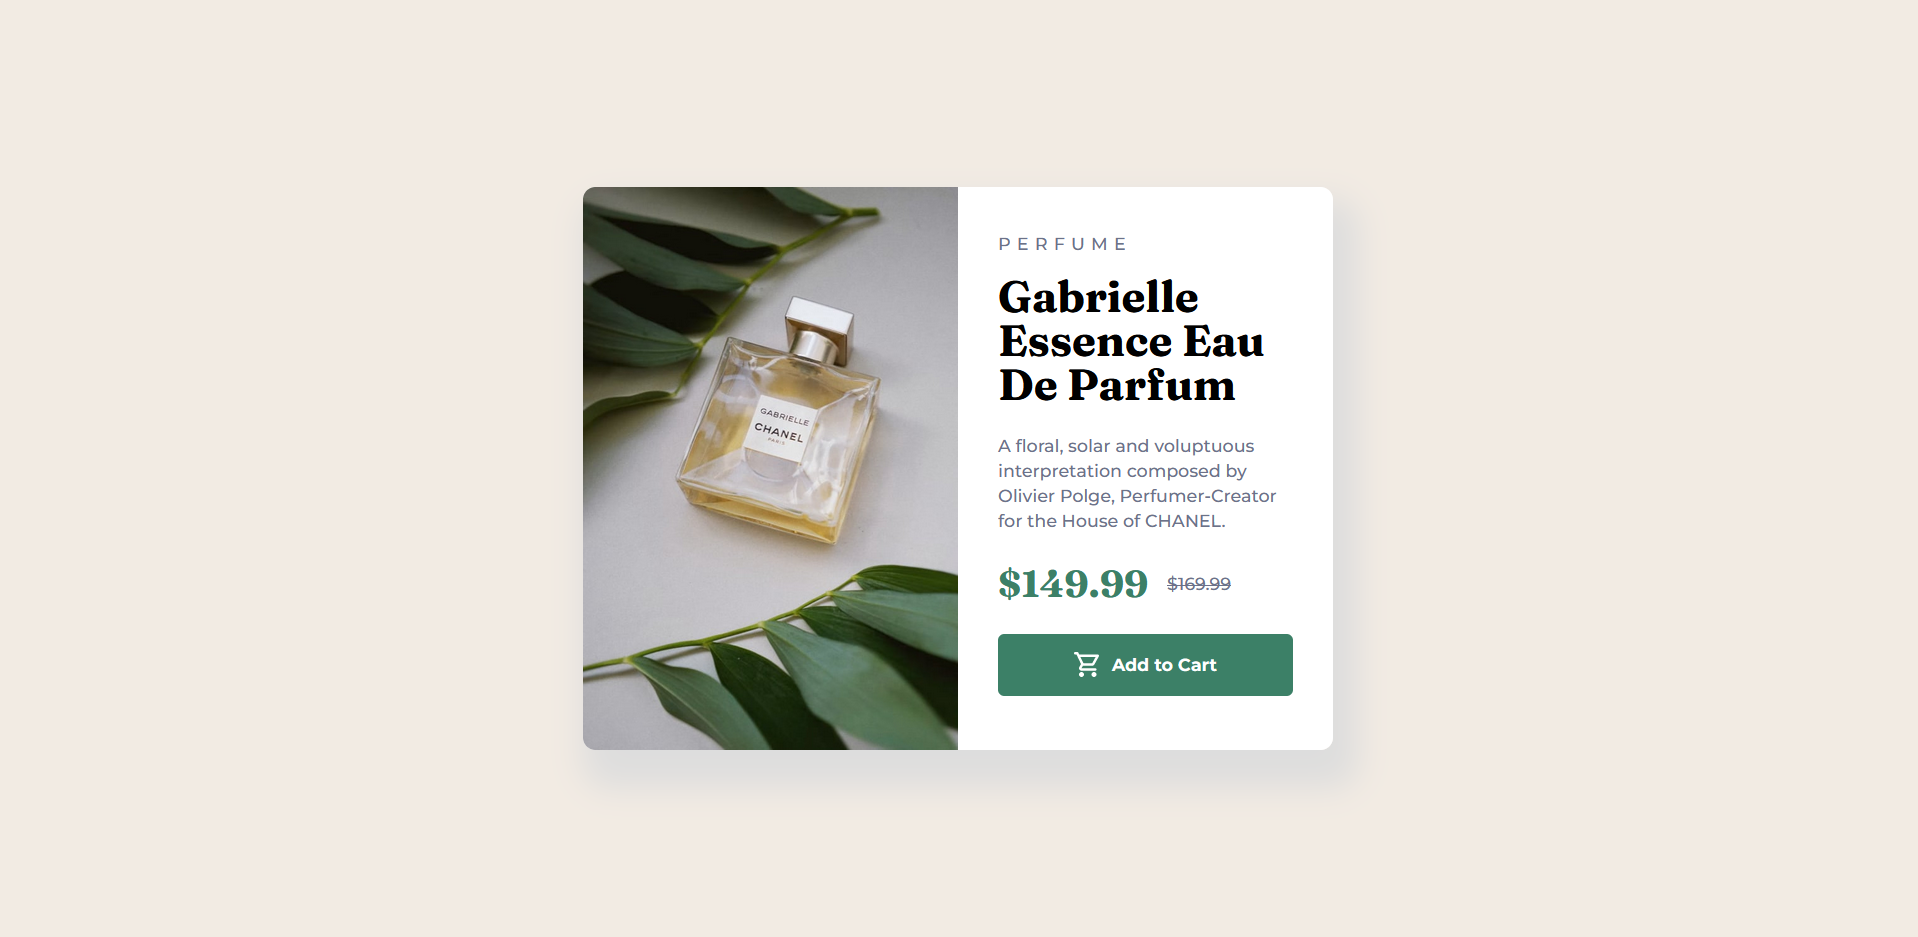
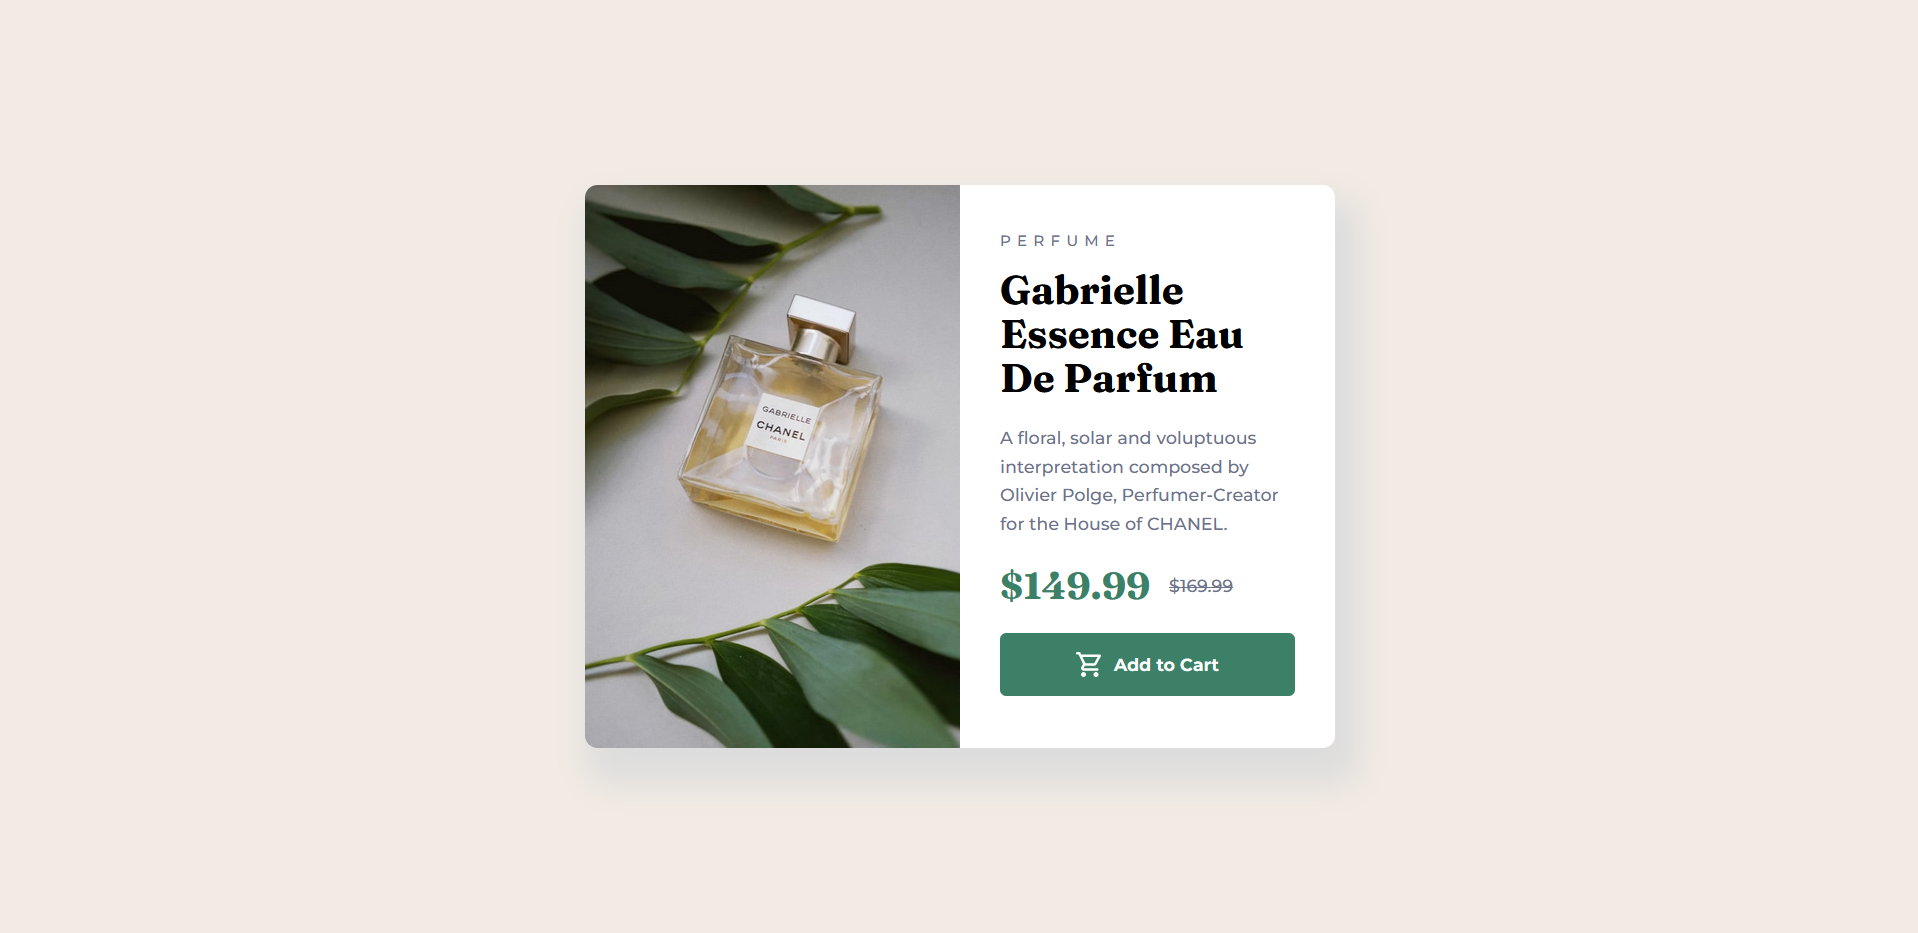
fix

diff --git a/Product-preview-card-component/css/style.css b/Product-preview-card-component/css/style.css
@@ -67,7 +67,7 @@ body {
 .cat {
   font-family: var(--font-family-Montserrat);
   font-weight: var(--font-weight-medium);
-  font-size: 14px;
+  font-size: 12px;
   text-transform: uppercase;
   line-height: 5px;
   letter-spacing: 5px;
@@ -77,7 +77,7 @@ body {
 h2 {
   font-family: var(--font-family-Fraunces);
   font-weight: var(--font-weight-bold);
-  font-size: 35px;
+  font-size: 32px;
   line-height: 35px;
 }
 
@@ -86,7 +86,7 @@ h2 {
   font-weight: var(--font-weight-medium);
   color: var(--dark-grayish-blue);
   font-size: 14px;
-  line-height: 20px;
+  line-height: 23px;
 }
 
 .price {

diff --git a/QR-code-card/index.html b/QR-code-card/index.html
@@ -29,7 +29,7 @@
     </style>
   </head>
   <body>
-    <div class="card">
+    <section class="card">
       <div class="main-container">
         <img
           src="images/image-qr-code.png"
@@ -44,7 +44,7 @@
           </p>
         </div>
       </div>
-    </div>
+    </section>
     <div class="attribution">
       Challenge by
       <a href="https://www.frontendmentor.io?ref=challenge" target="_blank"

diff --git a/Results-Summary-Component/index.html b/Results-Summary-Component/index.html
@@ -16,7 +16,7 @@
 
   </head>
   <body>
-    <div role="article" class="card">
+    <section class="card">
       <div class="result">
         <h2>Your Result</h2>
         <div class="score">
@@ -31,7 +31,7 @@
         <div class="contain-summary-score">
         </div>
       </div>
-    </div>
+    </section>
     <script src="./js/script.js"></script>
   </body>
 </html>

diff --git a/Product-preview-card-component/index.html b/Product-preview-card-component/index.html
@@ -23,7 +23,7 @@
 
   </head>
   <body>
-    <div class="card">
+    <section class="card">
       <img
         class="img-desktop"
         src="./images/image-product-desktop.jpg"
@@ -49,6 +49,6 @@
           <img src="./images/icon-cart.svg" alt="Icon Cart" /> Add to Cart
         </button>
       </div>
-    </div>
+    </section>
   </body>
 </html>

diff --git a/Product-preview-card-component/README.md b/Product-preview-card-component/README.md
@@ -16,18 +16,12 @@ This is a solution to the [Product preview card component challenge on Frontend 
 
 ## My process
 
-I created a web page that displays a summary of test results fetched from a JSON file. The page includes a "Your Result" section that shows the user's average score, as well as a "Summary" section that displays individual scores by category. The scores are presented in a visually appealing way using icons and colors.
-
-To achieve this, I used JavaScript to fetch the data from the JSON file and calculate the average score. I then dynamically created HTML elements to display the scores by category. Finally, I added a button for users to continue after viewing their results.
-
-Overall, this web page provides an interactive and engaging way for users to review their test results and learn from their performance.
+I start by create HTML and then I write the CSS, in my CSS I define some variables (Typo, Colors) and I style the card.
 
 ### Built with
 
 - HTML
 - CSS
-- JavaScript
-- JSON file
 - Visual Studio Code
 
 ### Useful resources
